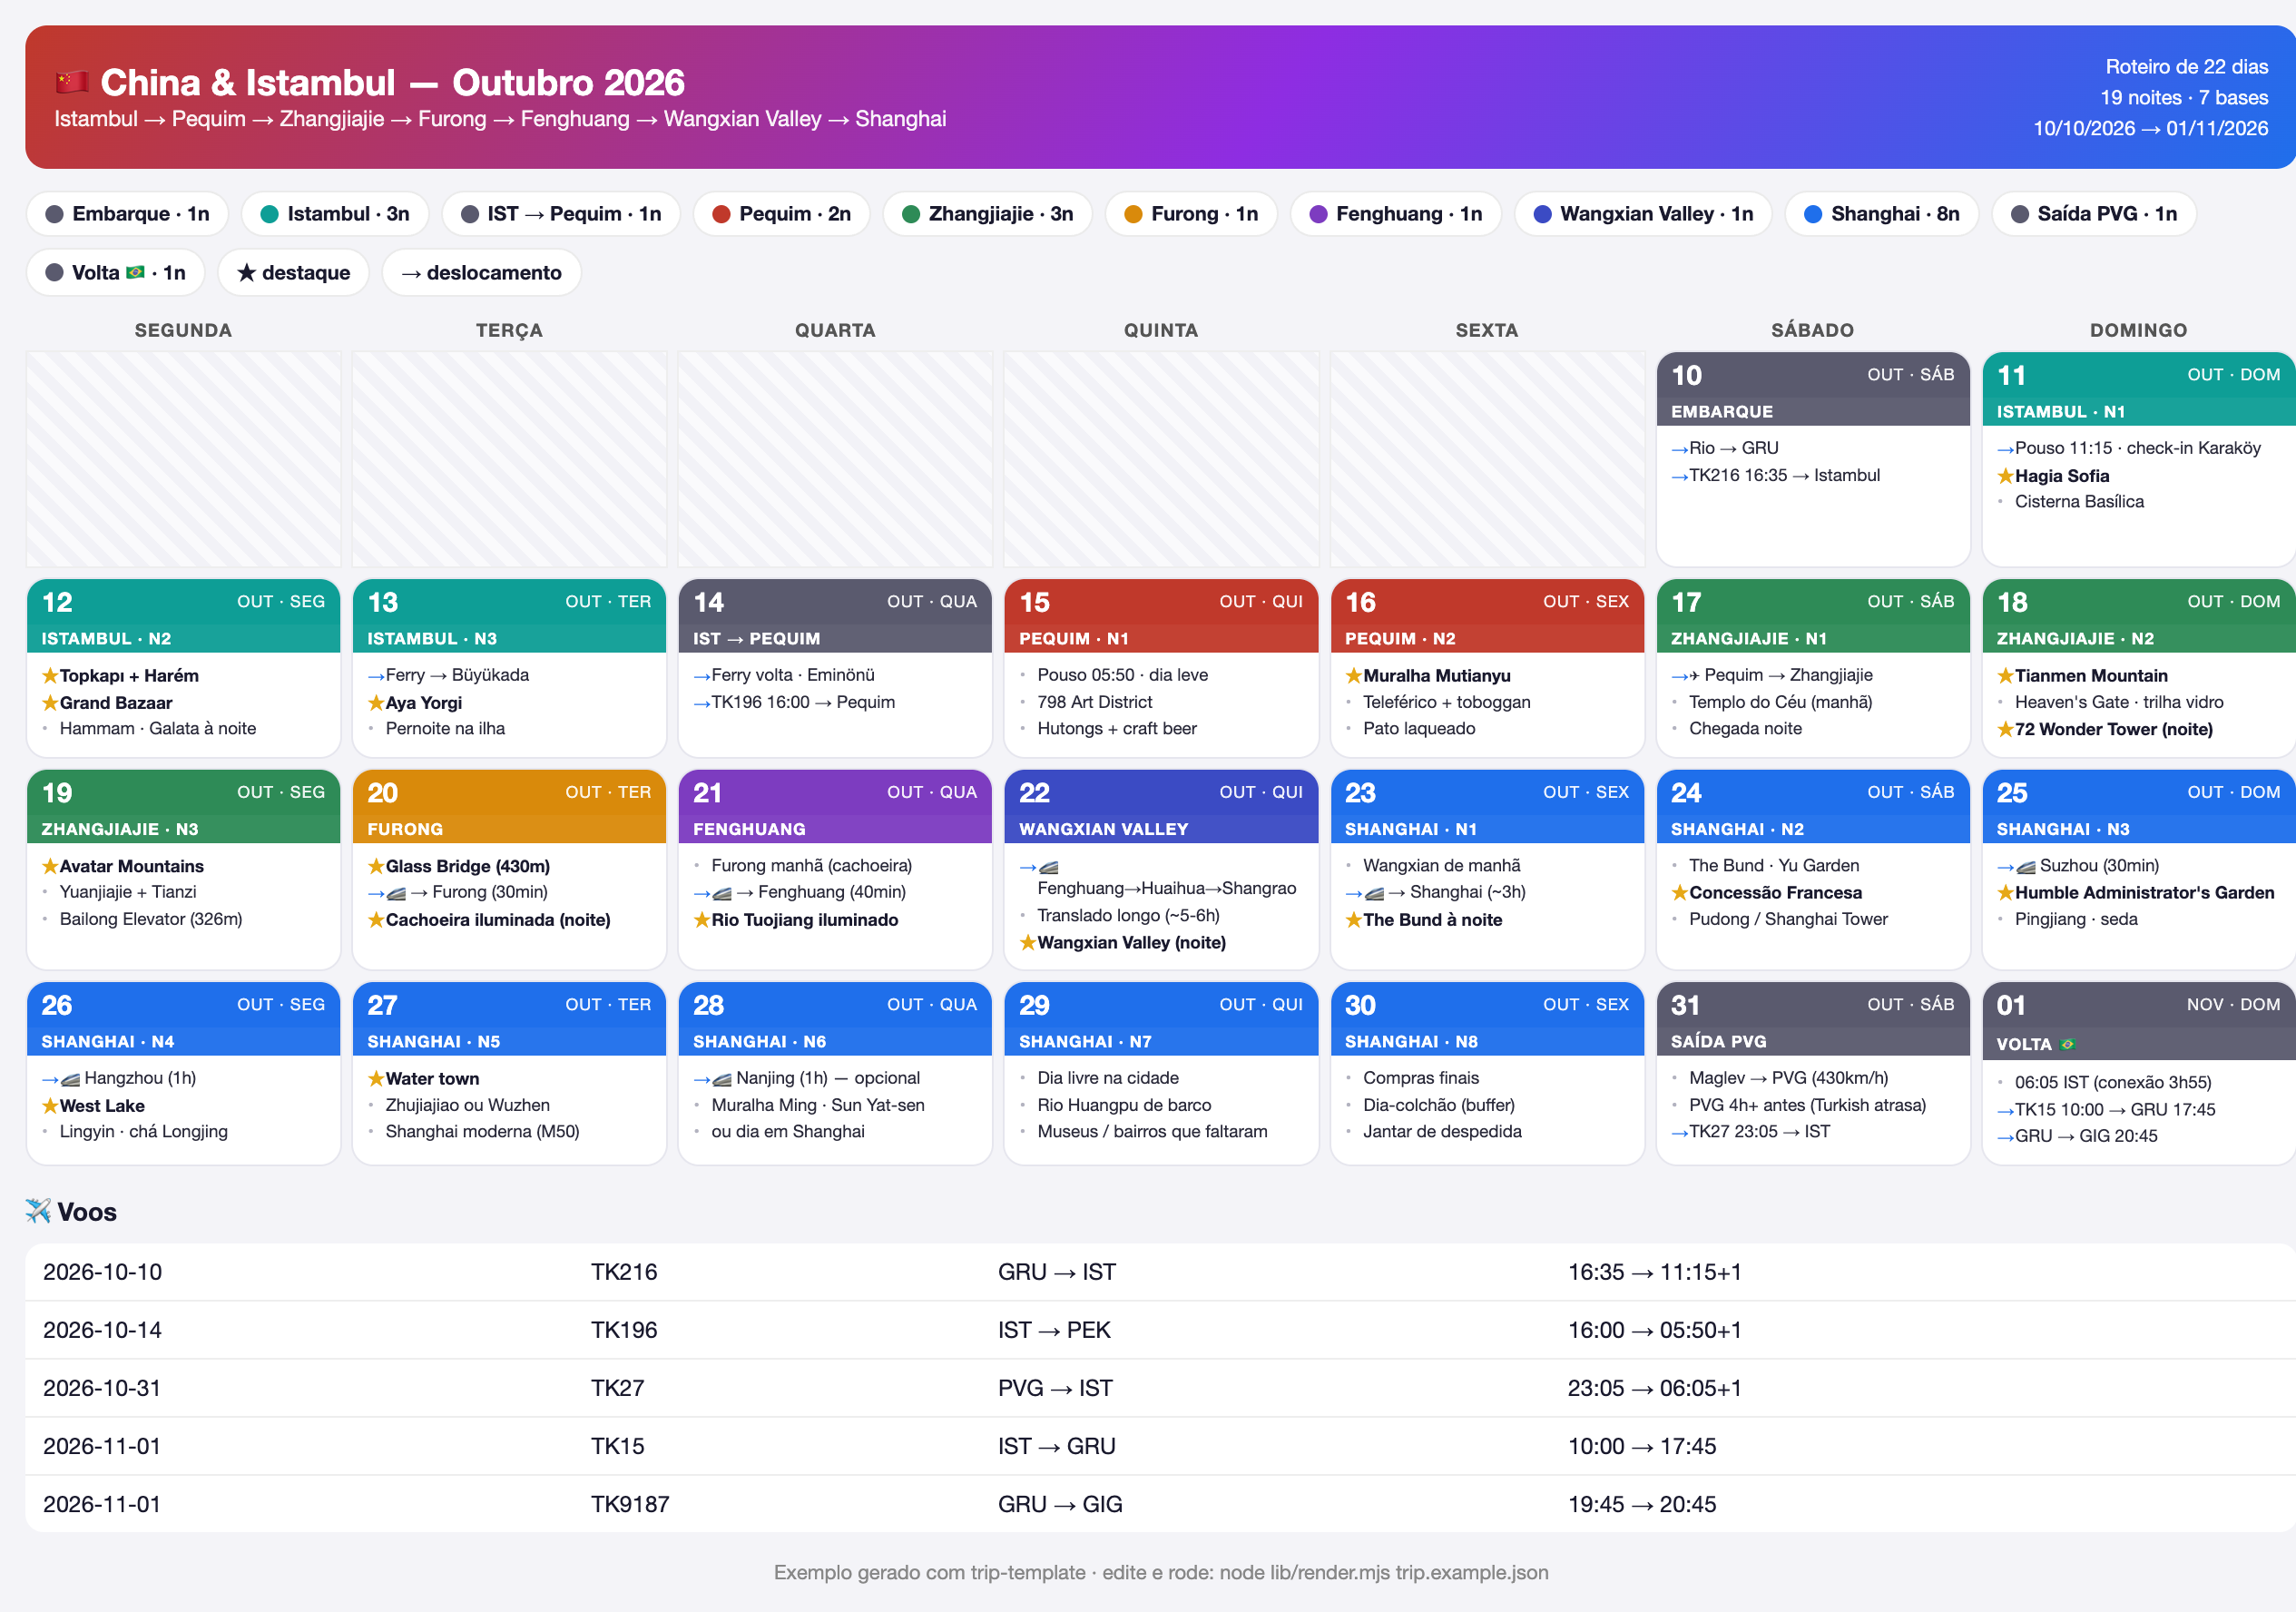
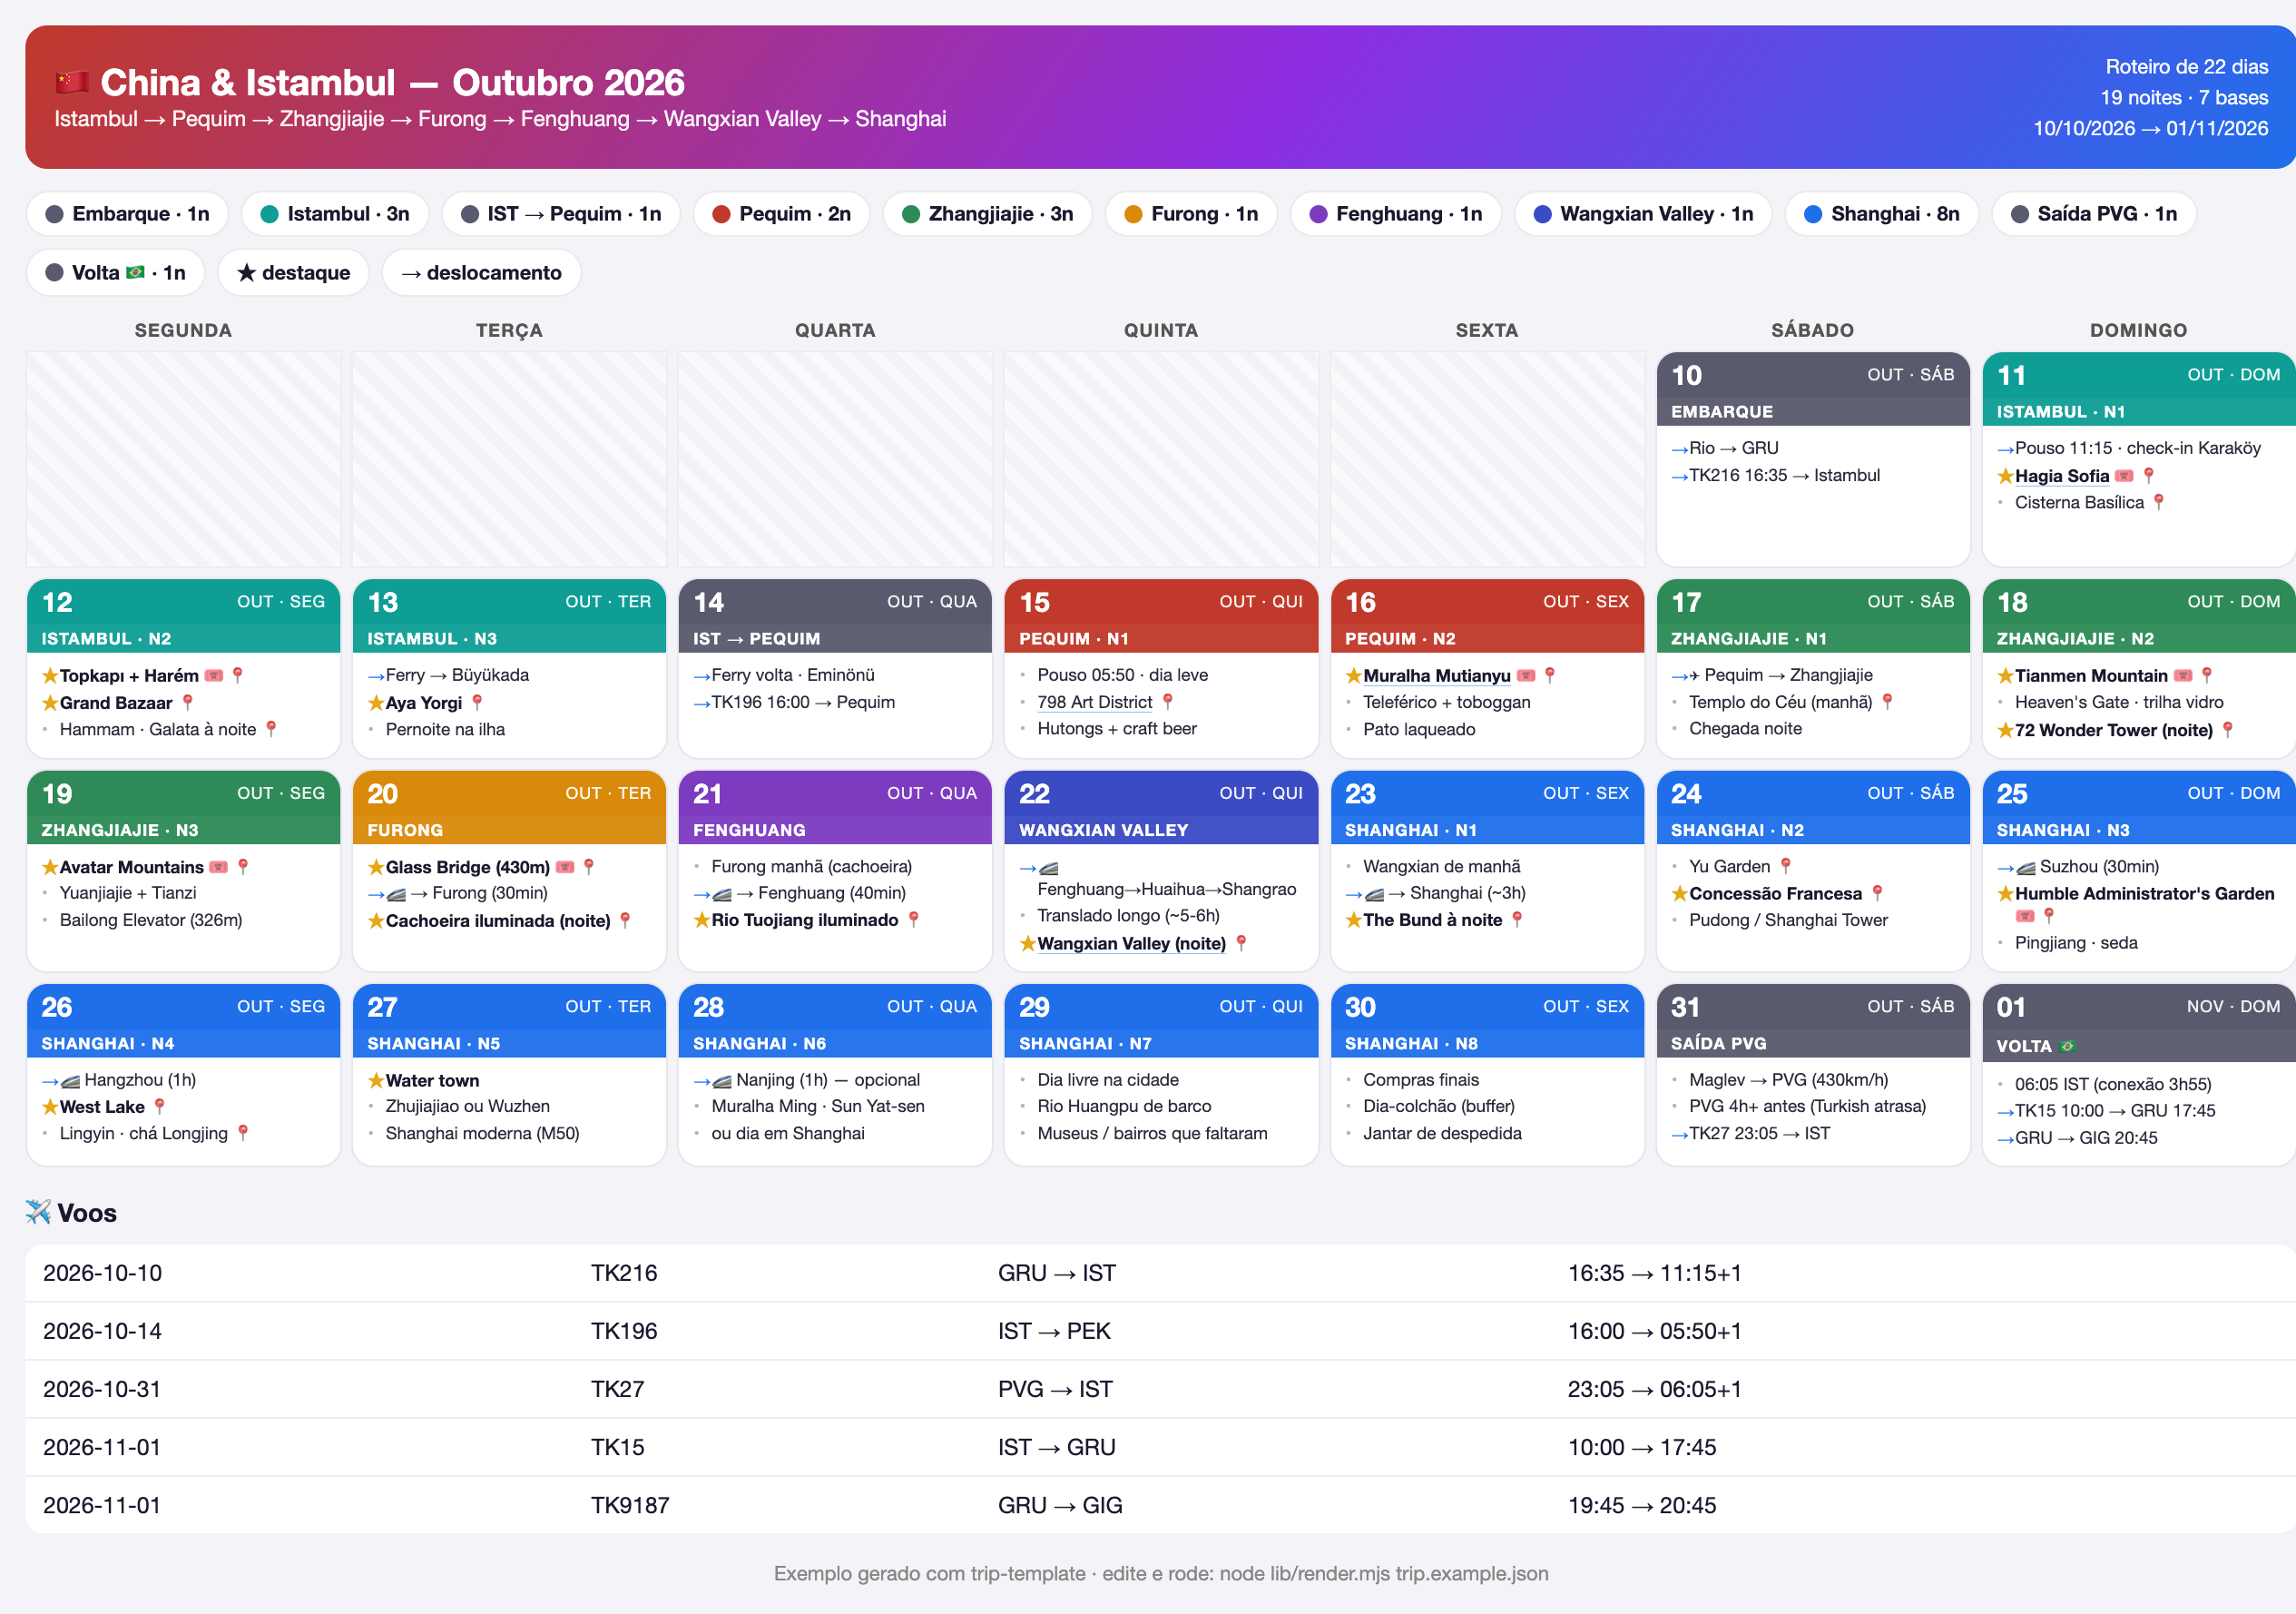
feat: clickable links, tickets and region-aware offline maps
- items support url (info page), tickets (🎟️) and coords (📍)
- map links: Google Maps by default, OpenStreetMap when trip.maps=osm
  (China continental — Google is blocked and offset there)
- render exports my-trip.kml with all places (Organic Maps / Google My Maps)
- OFFLINE-MAPS.md: step-by-step to see all pins on a map and use offline
- example enriched with real links/coords; CLAUDE.md + README updated

diff --git a/OFFLINE-MAPS.md b/OFFLINE-MAPS.md
@@ -1,0 +1,47 @@
+# 🗺️ Mapas offline — ver todos os seus lugares num mapa
+
+Ao gerar o roteiro, se os pontos têm coordenadas, sai também um arquivo **`my-trip.kml`**
+com todos os lugares da viagem. Com ele você consegue:
+
+- ver **todos os pontos num mapa** de uma vez (uma visão geral da viagem);
+- **navegar offline**, sem internet nem VPN, baixando a região uma vez no Wi-Fi.
+
+Escolha um dos caminhos abaixo.
+
+---
+
+## ✅ Opção 1 — Organic Maps (recomendado · funciona em qualquer país, incl. China)
+
+App gratuito, sem anúncios, 100% offline, baseado em OpenStreetMap.
+
+1. Instale **Organic Maps** ([Android](https://play.google.com/store/apps/details?id=app.organicmaps) · [iPhone](https://apps.apple.com/app/organic-maps/id1567437057)).
+2. Abra o app e **baixe o mapa** do(s) país/região que vai visitar (uma vez, no Wi-Fi).
+3. Envie o **`my-trip.kml`** para o celular (AirDrop, e-mail, WhatsApp para si mesmo, Drive…).
+4. Abra o arquivo e escolha **"Abrir com Organic Maps"** → todos os seus pontos aparecem,
+   e funcionam **offline**.
+
+> Por que Organic Maps: na **China** o Google Maps é bloqueado e mostra as ruas deslocadas;
+> o Organic Maps usa GPS real e funciona offline. Fora da China também é ótimo.
+
+---
+
+## 🌍 Opção 2 — Google (fora da China · se você prefere o Google)
+
+**Ver os pontos num mapa (Google My Maps):**
+1. Acesse [mymaps.google.com](https://www.google.com/mymaps) → **Criar novo mapa**.
+2. **Importar** → suba o **`my-trip.kml`** → todos os lugares aparecem no mapa.
+
+**Mapa offline para navegar (Google Maps):**
+1. No app Google Maps: perfil → **Mapas off-line** → **Selecionar seu próprio mapa**.
+2. Enquadre a cidade/região e **baixe** (no Wi-Fi).
+
+> ⚠️ Na **China continental** o Google Maps não é confiável (bloqueado + coordenadas
+> deslocadas). Lá, use a **Opção 1** ou o app local **Amap (Gaode)**.
+
+---
+
+## Dica
+
+Os links **📍** dentro do `my-trip.html` abrem cada lugar no mapa direto (Google por padrão,
+OpenStreetMap quando a viagem é marcada como China). Para a **visão de todos os pontos
+juntos** e o **uso offline**, use o `my-trip.kml` com um dos apps acima.

diff --git a/README.md b/README.md
@@ -13,8 +13,8 @@ Dois jeitos de usar: **no terminal** ou **conversando com o Claude**.
 
 ```bash
 # 1. clone (ou use "Use this template" aqui no GitHub)
-git clone https://github.com/abouhid2/trip-template.git
-cd trip-template
+git clone https://github.com/abouhid2/Bou-Trip.git
+cd Bou-Trip
 ```
 
 ### Opção A — Terminal (assistente interativo)
@@ -24,6 +24,7 @@ node generate.mjs
 Ele pergunta destino, datas, paradas (noites + destaques) e voos opcionais, e gera:
 - **`my-trip.html`** — seu roteiro visual (abra no navegador)
 - **`trip.json`** — seus dados (edite e regenere quando quiser)
+- **`my-trip.kml`** — todos os pontos para ver num mapa e usar offline (se houver coordenadas)
 
 > Precisa do [Node.js](https://nodejs.org) 18+. Confira com `node --version`.
 
@@ -49,6 +50,20 @@ Para detalhar um dia específico de uma parada de várias noites, use o campo `d
 
 ---
 
+## 🔗 Links e 🗺️ mapas offline
+
+Cada item pode virar **clicável**: `url` (página do lugar), `tickets` (🎟️ comprar ingresso)
+e `coords` (📍 abre o mapa). O HTML é **self-contained e funciona offline** para leitura;
+os links só precisam de internet quando você toca neles.
+
+- **📍 dos lugares:** abrem no **Google Maps** por padrão. Em viagens à **China continental**,
+  defina `"maps": "osm"` no `trip.json` — lá o Google é bloqueado e desloca as coordenadas.
+- **Ver todos os pontos num mapa + offline:** o gerador cria um **`my-trip.kml`**. Importe no
+  **Organic Maps** (grátis, offline, qualquer país) ou no **Google My Maps**. Passo a passo em
+  **[`OFFLINE-MAPS.md`](OFFLINE-MAPS.md)**.
+
+---
+
 ## 🧩 Formato (`trip.json`)
 
 ```jsonc
@@ -56,10 +71,15 @@ Para detalhar um dia específico de uma parada de várias noites, use o campo `d
   "title": "Minha Viagem", "emoji": "🧳",
   "travelers": "Alex & Bia",
   "startDate": "2026-10-10",          // 1º dia (AAAA-MM-DD) — as datas são calculadas daqui
+  "maps": "google",                   // "google" (padrão) | "osm" (use na China continental)
   "stops": [
     {
       "city": "Tóquio", "nights": 4,
-      "highlights": ["Shibuya", { "type": "star", "text": "Monte Fuji" }],
+      "highlights": [
+        "Shibuya",
+        { "type": "star", "text": "Monte Fuji",
+          "url": "https://...", "tickets": "https://...", "coords": [35.3606, 138.7274] }
+      ],
       "days": [                        // opcional: conteúdo dia a dia (tem prioridade)
         [ { "type": "move", "text": "Chegada Narita" }, "Check-in" ],
         [ { "type": "star", "text": "Senso-ji" }, "Asakusa" ]
@@ -82,10 +102,11 @@ Veja **[`trip.example.json`](trip.example.json)** para um exemplo completo (a vi
 
 | Caminho | O que é |
 |---------|---------|
-| `generate.mjs` | Assistente de terminal (perguntas → `trip.json` + `my-trip.html`) |
-| `lib/render.mjs` | Motor: transforma `trip.json` em HTML (também roda via CLI) |
+| `generate.mjs` | Assistente de terminal (perguntas → `trip.json` + `my-trip.html` + `my-trip.kml`) |
+| `lib/render.mjs` | Motor: transforma `trip.json` em HTML e KML (também roda via CLI) |
 | `trip.example.json` | Exemplo de entrada (viagem China & Istambul 2026) |
 | `CLAUDE.md` | Instruções para o modo Claude |
+| `OFFLINE-MAPS.md` | Como ver os pontos num mapa e usar offline (Organic Maps / Google) |
 | `examples/china-2026/` | Exemplo bem detalhado: logística, dia a dia, dicas, mapa KML, PDF |
 
 ---

diff --git a/CLAUDE.md b/CLAUDE.md
@@ -20,13 +20,34 @@ mas **nunca invente dados pessoais** (nomes, documentos, código de reserva): pe
 Escreva um arquivo `trip.json` seguindo exatamente o formato de **`trip.example.json`**.
 Resumo do schema:
 - `title`, `emoji`, `travelers`, `startDate` (AAAA-MM-DD), `footer` (opcionais menos startDate)
+- `maps`: `"google"` (padrão) ou `"osm"`. **Use `"osm"` para viagens à China continental**
+  (lá o Google Maps é bloqueado e desloca as coordenadas). Para o resto do mundo, deixe Google.
 - `stops`: lista de paradas na ordem da viagem. Cada parada:
   - `city` (texto), `nights` (número)
   - `transit: true` para dias de voo/translado (cor cinza, fora da contagem de bases)
-  - `highlights`: lista de itens (string vira bullet; `{ "type": "star"|"move"|"bullet", "text": "…" }`)
+  - `highlights`: lista de itens (string vira bullet; ou objeto, veja abaixo)
   - `days`: **opcional** — array por dia (cada dia é uma lista de itens), para controlar o conteúdo
     dia a dia em paradas de várias noites. Tem prioridade sobre `highlights`.
 - `flights`: lista opcional `{ date, flightNo, from, to, dep, arr, note }`
+
+### Item de dia (formato rico)
+```jsonc
+{
+  "type": "star",                  // "star" (★ imperdível) | "move" (→ deslocamento) | "bullet"
+  "text": "Muralha Mutianyu",
+  "url": "https://...",            // página do lugar (oficial/info) — vira link clicável no nome
+  "tickets": "https://...",        // link para comprar ingressos — vira ícone 🎟️
+  "coords": [40.4319, 116.5704]    // [lat, lon] WGS-84 — vira ícone 📍 + ponto no mapa offline
+}
+```
+
+**Pesquise e preencha** `url`, `tickets` e `coords` dos pontos principais (use a web se disponível):
+- `url`: site oficial, página da atração, ou guia confiável.
+- `tickets`: bilheteria oficial; para China, `trip.com` costuma funcionar.
+- `coords`: **sempre WGS-84 (GPS real / OpenStreetMap)** — em qualquer país. ⚠️ Na China não
+  pegue do Google Maps: ele aplica o desvio GCJ-02 e as coordenadas saem ~centenas de metros
+  erradas. Com `coords`, o 📍 vira link de mapa (Google ou OSM, conforme `maps`) e o ponto
+  entra no `my-trip.kml`.
 
 As datas dos dias são **calculadas automaticamente** a partir de `startDate` somando as noites.
 
@@ -36,7 +57,9 @@ Rode:
 node lib/render.mjs trip.json my-trip.html
 ```
 Depois diga para a pessoa abrir `my-trip.html` no navegador (é responsivo no celular e
-imprime como PDF em A4 paisagem).
+imprime como PDF em A4 paisagem). Se houver `coords`, o render também cria um
+**`my-trip.kml`** — aponte a pessoa para o **[`OFFLINE-MAPS.md`](OFFLINE-MAPS.md)**: importando
+esse arquivo no Organic Maps (ou Google My Maps) ela vê todos os pontos num mapa e usa offline.
 
 ## Dicas
 - `★` = destaque imperdível, `→` = deslocamento. Use os tipos `star` e `move` para isso.